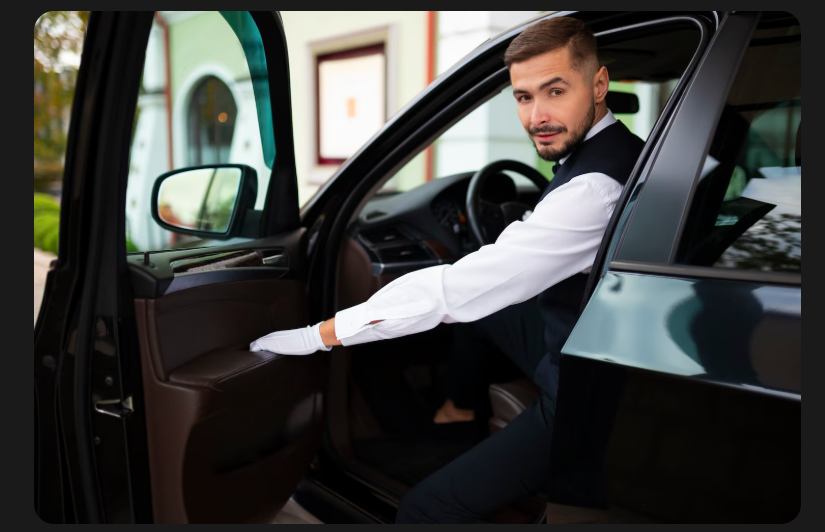
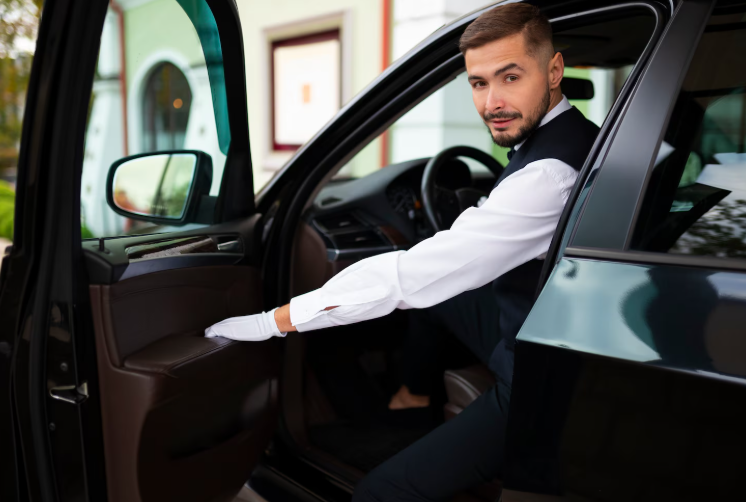
feat: reorder services, update CTA labels, fix footer navigation links, and update disabled button styles across components

diff --git a/components/services/ServicesSection.tsx b/components/services/ServicesSection.tsx
@@ -13,16 +13,16 @@ import styles from "./ServicesSection.module.css";
 
 const MAIN_SERVICES = [
   {
-    title: "Employee Shuttle Service",
+    title: "Airport Transfers",
     description:
-      "Provide your employees with a reliable and comfortable daily commute. Our shuttle services are designed to maximize productivity and employee satisfaction.",
-    iconSrc: "/Container (5).png",
-    image: "/images/corporateshuttles.jpeg",
+      "Never miss a flight again. Our airport transfer service provides punctual, stress-free transportation with real-time flight tracking.",
+    iconSrc: "/Container (4).png",
+    image: "/images/airpot.jpeg",
     features: [
-      "Fixed route scheduling",
-      "GPS tracked vehicles",
-      "Professional drivers",
-      "Employee app access",
+      "Flight tracking",
+      "Meet & greet service",
+      "24/7 availability",
+      "Luggage assistance",
     ],
   },
   {
@@ -39,6 +39,19 @@ const MAIN_SERVICES = [
     ],
   },
   {
+    title: "Corporate Shuttle Service",
+    description:
+      "Provide your employees with a reliable and comfortable daily commute. Our shuttle services are designed to maximize productivity and employee satisfaction.",
+    iconSrc: "/Container (5).png",
+    image: "/images/corporateshuttles.jpeg",
+    features: [
+      "Fixed route scheduling",
+      "GPS tracked vehicles",
+      "Professional drivers",
+      "Employee app access",
+    ],
+  },
+  {
     title: "Event Transportation",
     description:
       "Seamless group transportation for conferences, corporate events, and special occasions. We coordinate every detail to ensure your event runs smoothly.",
@@ -51,19 +64,7 @@ const MAIN_SERVICES = [
       "Flexible scheduling",
     ],
   },
-  {
-    title: "Airport Transfers",
-    description:
-      "Never miss a flight again. Our airport transfer service provides punctual, stress-free transportation with real-time flight tracking.",
-    iconSrc: "/Container (4).png",
-    image: "/images/airpot.jpeg",
-    features: [
-      "Flight tracking",
-      "Meet & greet service",
-      "24/7 availability",
-      "Luggage assistance",
-    ],
-  },
+  
 ];
 
 const ADDITIONAL_SERVICES = [
@@ -155,7 +156,7 @@ export default function ServicesSection() {
                         </li>
                     ))}
                   </ul>
-                  <Link href="/contact#booking" className={styles.quoteBtn}>Get Quote →</Link>
+                  <Link href="/contact#booking" className={styles.quoteBtn}>Enquire Now →</Link>
                 </div>
               </div>
             ))}
@@ -193,7 +194,7 @@ export default function ServicesSection() {
             <span className={styles.ctaLine2}> transportation needs and get a</span>
             <span className={styles.ctaLine3}> customized quote</span>
           </p>
-          <Link href="/contact#booking" className={styles.ctaBtn}>Request a Quote →</Link>
+          <Link href="/contact#booking" className={styles.ctaBtn}>Send An Enquiry →</Link>
         </div>
       </section>
     </>

diff --git a/components/layout/Footer.tsx b/components/layout/Footer.tsx
@@ -50,11 +50,11 @@ export default function Footer() {
               <ChevronDown className={`${styles.chevron} ${openSection === 'services' ? styles.chevronOpen : ''}`} size={18} />
             </h4>
             <ul className={`${styles.linkList} ${openSection === 'services' ? styles.linkListOpen : ''}`}>
-              <li><Link href="#">Daily Commute</Link></li>
-              <li><Link href="#">Corporate Events</Link></li>
-              <li><Link href="#">Airport Transfers</Link></li>
-              <li><Link href="#">Group Transport</Link></li>
-              <li><Link href="#">Executive Service</Link></li>
+              <li><Link href="/services">Daily Commute</Link></li>
+              <li><Link href="/services">Corporate Events</Link></li>
+              <li><Link href="/services">Airport Transfers</Link></li>
+              <li><Link href="/services">Group Transport</Link></li>
+              <li><Link href="/services">Executive Service</Link></li>
             </ul>
           </div>
 
@@ -68,11 +68,11 @@ export default function Footer() {
               <ChevronDown className={`${styles.chevron} ${openSection === 'company' ? styles.chevronOpen : ''}`} size={18} />
             </h4>
             <ul className={`${styles.linkList} ${openSection === 'company' ? styles.linkListOpen : ''}`}>
-              <li><Link href="#">About Us</Link></li>
-              <li><Link href="#">Careers</Link></li>
-              <li><Link href="#">Blog</Link></li>
-              <li><Link href="#">Press</Link></li>
-              <li><Link href="#">Partners</Link></li>
+              <li><Link href="/about">About Us</Link></li>
+              <li><Link href="/contact">Careers</Link></li>
+              <li><Link href="/contact">Blog</Link></li>
+              <li><Link href="/contact">Press</Link></li>
+              <li><Link href="/contact">Partners</Link></li>
             </ul>
           </div>
 
@@ -86,11 +86,11 @@ export default function Footer() {
               <ChevronDown className={`${styles.chevron} ${openSection === 'support' ? styles.chevronOpen : ''}`} size={18} />
             </h4>
             <ul className={`${styles.linkList} ${openSection === 'support' ? styles.linkListOpen : ''}`}>
-              <li><Link href="#">Help Center</Link></li>
-              <li><Link href="#">Safety</Link></li>
-              <li><Link href="#">Terms of Service</Link></li>
-              <li><Link href="#">Privacy Policy</Link></li>
-              <li><Link href="#">Contact Us</Link></li>
+              <li><Link href="/contact">Help Center</Link></li>
+              <li><Link href="/about">Safety</Link></li>
+              <li><Link href="/">Terms of Service</Link></li>
+              <li><Link href="/">Privacy Policy</Link></li>
+              <li><Link href="/contact">Contact Us</Link></li>
             </ul>
           </div>
         </div>

diff --git a/components/features/FeaturesPage.tsx b/components/features/FeaturesPage.tsx
@@ -214,7 +214,7 @@ export default function FeaturesPage() {
         <h3 className={styles.sectionTitle}>Experience These Features</h3>
         <p className={styles.sectionLead}>Schedule a demo to see how our platform can transform your <span className={styles.keepTogether}>corporate transportation</span></p>
         <div style={{marginTop:24}}>
-          <Link href="/contact#booking" className={styles.ctaBtn}>Request a Demo →</Link>
+          <Link href="/contact#booking" className={styles.ctaBtn}>Send An Enquiry →</Link>
         </div>
       </div>
 

diff --git a/components/contact/CONTACT.tsx b/components/contact/CONTACT.tsx
@@ -226,7 +226,7 @@ export default function CONTACT() {
             </div>
 
             <div className={styles.contactImageWrap}>
-              <Image src="/images/classydriver.png" alt="vehicle" width={360} height={220} className={styles.contactImage} />
+              <Image src="/images/classydriver.png" alt="vehicle" width={460} height={220} className={styles.contactImage} />
             </div>
           </aside>
         </div>

diff --git a/components/home/BookingForm.module.css b/components/home/BookingForm.module.css
@@ -220,8 +220,8 @@
 }
 
 .submitBtnDisabled {
-  background: #e9ecef !important;
-  color: #adb5bd !important;
+  background: rgba(255, 200, 57, 0.9) !important;
+  color: #111827 !important;
   cursor: not-allowed !important;
   transform: none !important;
   box-shadow: none !important;

diff --git a/components/contact/CONTACT.module.css b/components/contact/CONTACT.module.css
@@ -346,8 +346,8 @@
 }
 
 .btnDisabled {
-  background: #e9ecef !important;
-  color: #adb5bd !important;
+  background: rgba(255, 200, 57, 0.9) !important;
+  color: #111827 !important;
   cursor: not-allowed !important;
   transform: none !important;
   box-shadow: none !important;

diff --git a/components/home/ContactForm.module.css b/components/home/ContactForm.module.css
@@ -120,8 +120,8 @@
 }
 
 .btnDisabled {
-  background: #e9ecef !important;
-  color: #adb5bd !important;
+  background: rgba(255, 200, 57, 0.9) !important;
+  color: #111827 !important;
   cursor: not-allowed !important;
   transform: none !important;
   box-shadow: none !important;
